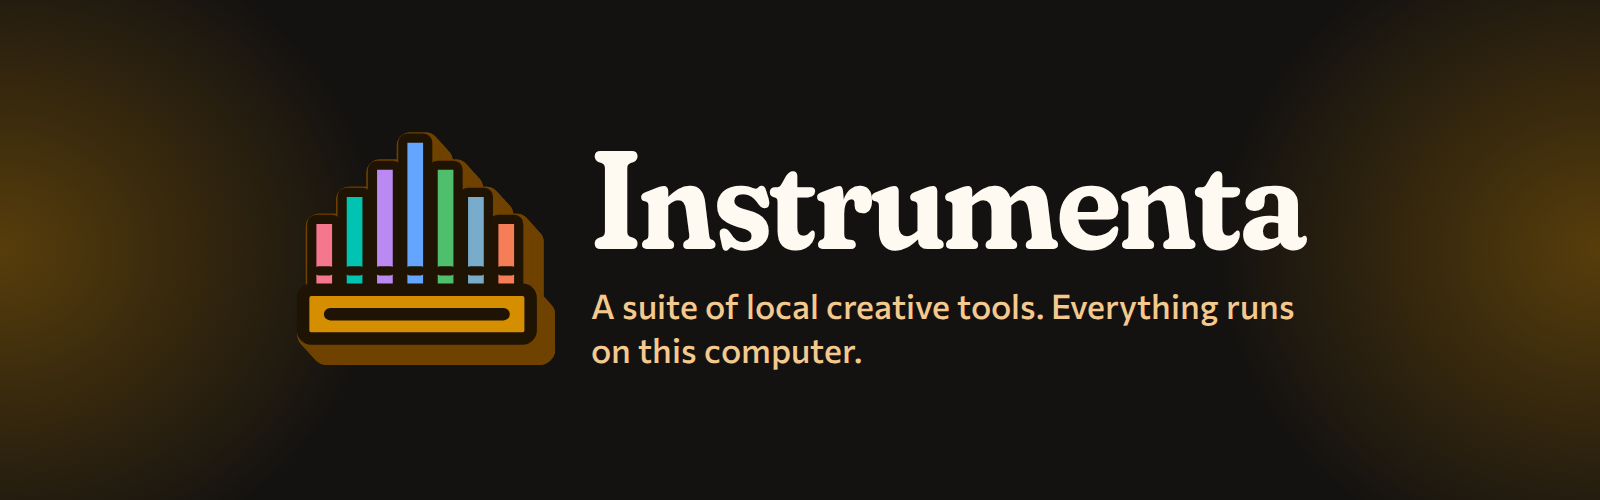
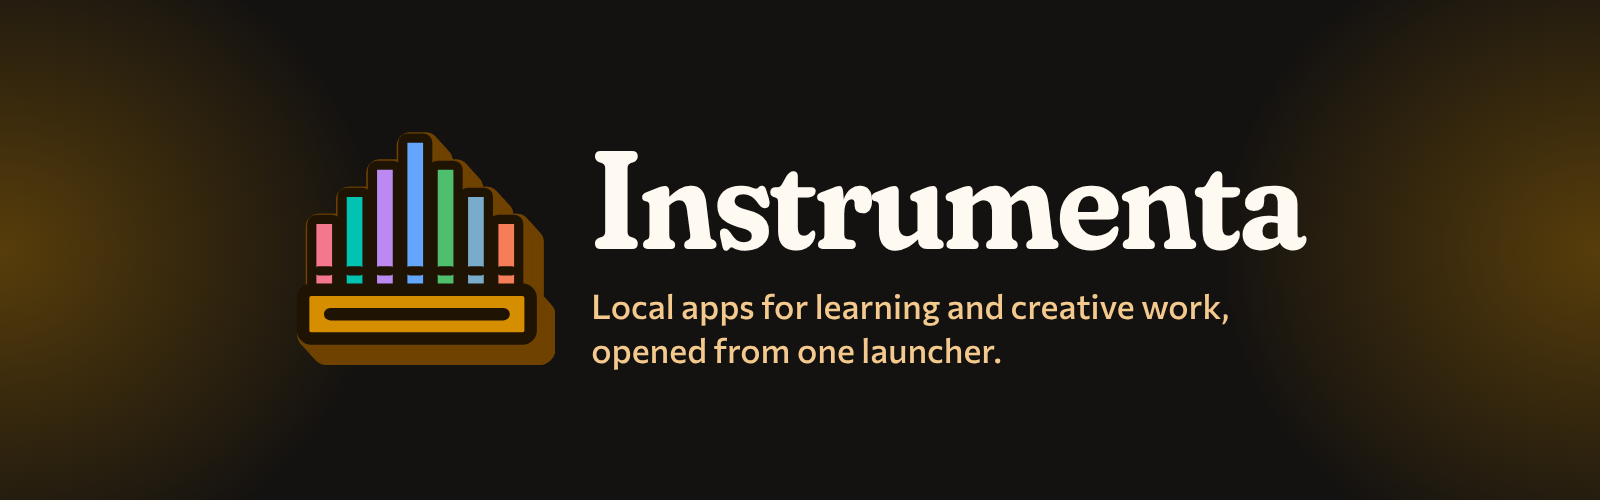
README: describe the suite as learning and creative apps, and trim to what the code does
The README opened with "A suite of local creative tools", but Discere and
LearnChess are learning apps. The new line is "Local apps for learning and
creative work, opened from one launcher." The banner is regenerated with it,
and the product brief no longer calls the suite creative-only.

Corrections checked against the code and catalog:
- App lines now match each catalog blurb (Fabula uses Claude Code or Codex,
  not Claude alone; Ludere's autosave; LearnChess puzzles and opening book).
- An update over 1 GB waits unless that app's own auto-update switch is on;
  it does not always wait.
- Theme has System, Light and Dark; Readiness also checks the NVIDIA GPU
  and free space.
- Instrumenta.cmd is workspace-level, not in this repo; the full command
  list (build and clean were missing) points to running-and-testing.md.
- The packaging command runs on Windows only.
- "Everything runs on this computer" is dropped: several apps call Claude
  Code or Codex.

The adapter list and release mechanics are now a short table and a pointer
to docs/product-lifecycle.md.

Claude-Session: https://claude.ai/code/session_01Cdn8M1FFwPQ9XRy3qEK3QP

Changed region(s): [[0.375, 0.57, 0.8125, 0.75], [0.6875, 0.45, 0.7188, 0.48]]

diff --git a/README.md b/README.md
@@ -4,118 +4,73 @@
 
 # Instrumenta
 
-A suite of local creative tools. Everything runs on this computer.
+Local apps for learning and creative work, opened from one launcher.
 
-Instrumenta is the Windows front door for this group of local software projects. It installs release
-artifacts, checks versions, launches the apps, and shows enough failure detail to be useful. Each app
-keeps its own repository, release history, runtime, and user data.
+Instrumenta is the Windows launcher for this group of apps. It installs their releases, checks
+versions, opens them, and shows enough failure detail to be useful. Each app keeps its own
+repository, release history, runtime, and user data.
 
 Current launcher version: **0.11.2**.
 
-Two views. **Console**, the default, gives the selected app the whole window, with the suite in a
-dock along the bottom. **Library** is the detailed view: every app as a list, and pages for Updates,
-Storage (what the apps use on disk, and safe clean-ups), Readiness (WSL, GPU, Claude Code and Codex,
-and what each app needs) and a workshop journal. Apps show their release notes after updating
-themselves; an update over 1 GB always waits to be asked. Settings has light and dark themes, and
-the organ in the corner plays each app's note if you let it. The brand is described in
-[`brand/README.md`](brand/README.md).
+**Console**, the default view, gives the selected app the whole window, with the suite in a dock
+along the bottom. **Library** lists every app and has pages for Updates, Storage (disk use and safe
+clean-ups), Readiness (WSL, NVIDIA GPU, Claude Code and Codex, free space, and what each app needs)
+and a workshop journal. Settings has a System, Light or Dark theme, and an organ that plays each
+app's note if you turn it on. The brand is described in [`brand/README.md`](brand/README.md).
 
 ## The apps
 
-- **Fabula** cuts a talking-head recording from its transcript and composes visuals around the
-  speaker, with Claude as the editor in the loop.
-- **Imago** is an AI designer: it drives your own Claude Code to make thumbnails, photo edits and
-  graphics.
-- **Ludere** is a screenplay editor and beat board.
-- **Discere** is a local learning workspace.
-- **LearnChess** trains openings, tactics, endgames, and play against Stockfish.
-- **Luna** generates speech with local GPU models.
-- **Forge3D** runs prompt-driven 3D asset workflows.
+- **Fabula** cuts a talking-head video by its words, then Claude Code or Codex makes it into a film.
+- **Imago** designs thumbnails, photo edits and graphics with your own Claude Code.
+- **Ludere** is a screenplay editor with a beat board. It autosaves as you write.
+- **Discere** is a learning workspace: lessons, review scheduling and a notebook that keep working
+  offline.
+- **LearnChess** teaches chess with Stockfish, two hundred thousand Lichess puzzles and an opening
+  book, all offline.
+- **Luna** generates speech on a local GPU.
+- **Forge3D** does prompt-driven 3D modelling on the Codex App Server.
 
 Motus, the native rough-cut editor, is discontinued and no longer in the launcher.
 
-Instrumenta itself is the eighth repository. The parent folder is only a workspace. Git remains the
-developer's job; the launcher has enough responsibility already.
-
 ## Open it
 
-For an installed copy, use the desktop or Start menu shortcut.
+An installed copy opens from the desktop or Start menu shortcut.
 
-From the sibling source workspace, double-click the top-level `Instrumenta.cmd`. Useful commands are:
+In a source workspace, double-click the workspace-level `Instrumenta.cmd` (it is not in this
+repository; [`scripts/instrumenta.ps1`](scripts/instrumenta.ps1) does the work). `.\Instrumenta.cmd
+help` lists its commands: `setup`, `update`, `build`, `test`, `doctor`, `clean`, `package` and
+`install`. `package` builds the installer and portable executable; `install` also opens the
+installer. [Running and testing](docs/running-and-testing.md) covers each one.
 
-```powershell
-.\Instrumenta.cmd setup
-.\Instrumenta.cmd update
-.\Instrumenta.cmd test
-.\Instrumenta.cmd doctor
-.\Instrumenta.cmd package
-.\Instrumenta.cmd install
-```
+## How apps are delivered
 
-`install` builds and opens the per-user Windows installer. `package` creates the installer and
-portable executable without installing either one.
+The catalog, [`products/catalog.json`](products/catalog.json), names each app's adapter.
 
-## How products are handled
+| App | Adapter | Delivered as |
+| --- | --- | --- |
+| Ludere, LearnChess | `managed-web` | Its own GitHub release; the copy baked into the installer is the fallback |
+| Fabula, Forge3D | `managed-bundle` | Its own GitHub release, kept with the previous version for rollback |
+| Luna | `installed-desktop` | Its own Windows installer, which Instrumenta downloads and runs |
+| Imago, Discere | `web-service` | A service started from the source checkout (inside WSL when the checkout is there) |
 
-Every product passes through the same visible lifecycle:
+Every release carries `instrumenta-release.json`. Instrumenta checks each artifact's size and
+SHA-256 before anything runs, resumes partial downloads, and installs one app at a time. **Add apps**
+lists every app with its state and download size.
 
-```text
-available → downloading → installing → installed → launching → running
-```
+Updates are found in the background and installed automatically unless that is turned off, for all
+apps or one. An update to an app that is open waits until it closes. An update over 1 GB waits to be
+asked unless that app's own auto-update switch is on. When a release has notes, the app shows
+them after updating until they are read.
+Instrumenta updates itself the same way: the header offers **Restart to update**, and closing the
+launcher installs it anyway.
 
-Updates and failures branch from that flow. The adapter decides what each step means:
+A sibling checkout can act as a developer override. Instrumenta does not pull, reset, switch, stage,
+or commit it. Surprise source control inside a launcher would be a fine way to ruin an afternoon.
 
-- `native-bundle` validates and starts a deployed native folder: Fabula's checkout, an Electron
-  runtime its own bootstrap deploys under it. Installed, Fabula is a `managed-bundle` whose
-  bootstrap runs the editor from an engine it sets up in WSL.
-- `web-vite` and `web-static` serve packaged local files in sandboxed Electron windows, each under
-  its own Content-Security-Policy. A product's `launch.health` names that policy and must equal its
-  ID, so one product's policy is never applied to another's build.
-- `web-service` starts a product-owned loopback service from its source checkout, waits for health,
-  then opens its window. Imago and Discere use it.
-- `managed-bundle` verifies a release archive, activates a versioned folder, and retains the last
-  working version for rollback. Forge3D uses it.
-- `managed-web` installs a released web build through the same verified path and serves it like any
-  other web product. Ludere and LearnChess are delivered this way, each from its own releases, with
-  the copy baked into the installer as the fallback.
-- `installed-desktop` delegates installation and removal to the product installer, then checks the
-  Windows installation record. Luna uses it.
+Install paths, verification, rollback, update policy and the release workflows are in
+[Product lifecycle](docs/product-lifecycle.md).
 
-The catalog is [`products/catalog.json`](products/catalog.json). Product-owned behavior belongs in
-each sibling repository's `instrumenta/product.json`.
-
-## Releases and developer checkouts
-
-Normal installs come from GitHub Releases. Instrumenta reads `instrumenta-release.json`, checks the
-declared size and SHA-256 for every artifact, and refuses path traversal or a corrupt download.
-Partial downloads can resume.
-
-Managed bundles are installed under:
-
-```text
-%LOCALAPPDATA%\Instrumenta\products\<id>\versions\<version>
-```
-
-The active-version pointer changes only after extraction and entry-point checks succeed. A failed
-first launch restores the previous version. The current and previous versions are kept; older ones
-are pruned. Downloads wait in `%LOCALAPPDATA%\Instrumenta\downloads` and are deleted once their
-version is active.
-
-Installs run one at a time. Add apps lists every product with its state and download size and
-queues the ones picked. Updates to installed products are found in the background and installed
-automatically unless that is turned off, globally or per app; an update to an app that is open waits
-until it closes.
-
-Instrumenta keeps itself current the same way. A newer launcher downloads in the background and is
-verified; the header then offers **Restart to update**, and closing Instrumenta installs it anyway.
-Releases are made by tagging `v<version>`: `.github/workflows/release.yml` for the launcher, and each
-web product's own `release.yml` through the shared `web-product-release.yml`.
-
-A sibling checkout can act as an explicit developer override. Instrumenta does not pull, reset,
-switch, stage, or commit that checkout. Surprise source control inside a launcher would be a fine way
-to ruin an afternoon.
-
-## Expected workspace
+## Workspace
 
 ```text
 Instrumenta/
@@ -129,15 +84,14 @@ Instrumenta/
 └── Forge3D/
 ```
 
-The launcher can remember another parent folder from Settings. `INSTRUMENTA_WORKSPACE` is available
-for an explicit command-line override.
+The parent folder is a container, not a repository. Settings can point the launcher at another
+parent folder, and `INSTRUMENTA_WORKSPACE` overrides it from the command line.
 
 ## Development
 
 Instrumenta needs Node.js 22.12 or newer.
 
 ```powershell
-cd Instrumenta
 npm install
 npm run apps:prepare:web
 npm start
@@ -146,32 +100,25 @@ npm run verify
 npm run package:windows
 ```
 
-The package command writes `Instrumenta-Setup-0.11.2.exe` and
-`Instrumenta-Portable-0.11.2.exe` to `release/`. Ludere and LearnChess are bundled with the launcher
-as the copies a fresh install opens with, and update from their own releases after that. Imago and
-Discere stay source-run, in WSL on Windows. Fabula, Luna and Forge3D install from their own
-releases.
+`npm run package:windows` runs on Windows only. It writes `Instrumenta-Setup-0.11.2.exe` and
+`Instrumenta-Portable-0.11.2.exe` to `release/`, with Ludere and LearnChess built in.
 
 ## Local boundaries
 
-Web products are confined to their registered `127.0.0.1` origin. Popups, arbitrary navigation,
-capture, device access, and privileged Electron permissions are denied. Native launches use named
-manifest entries and contained paths. Logs and crash data stay on the machine.
-
-Instrumenta stores launcher settings under Electron's `instrumenta-launcher` application data.
-Managed-product state lives below `%LOCALAPPDATA%\Instrumenta`. Product documents remain in the
-locations declared by each app.
+Web apps are confined to their registered `127.0.0.1` origin. Popups, arbitrary navigation,
+capture, device access, and privileged Electron permissions are denied. Logs and crash dumps stay on
+the machine. Launcher settings live under Electron's `instrumenta-launcher` application data,
+installed apps under `%LOCALAPPDATA%\Instrumenta`, and each app's documents where that app keeps
+them.
 
 ## Documentation
 
-- [Product manifests, release verification, adapters, and rollback](docs/product-lifecycle.md)
-- [Running, testing, packaging, and troubleshooting](docs/running-and-testing.md)
+- [Product lifecycle](docs/product-lifecycle.md): manifests, release verification, adapters, rollback, updates
+- [Running and testing](docs/running-and-testing.md): workspace commands, packaging, troubleshooting
 - [Repository layout and migration notes](docs/repository-migration.md)
 - [Local MCP servers and Codex skills](docs/ai-agents.md)
-- [Brand assets and product marks](brand/README.md), and [`brand/scripts/build-readme-banner.mjs`](brand/scripts/build-readme-banner.mjs) for the README banners
-- [Documentation voice and maintenance](docs/documentation-style.md)
-
-Instrumenta is MIT licensed.
+- [Brand assets and product marks](brand/README.md); [`brand/scripts/build-readme-banner.mjs`](brand/scripts/build-readme-banner.mjs) renders the README banners
+- [Documentation style](docs/documentation-style.md)
 
 ## Family
 

diff --git a/docs/suite/product-brief.md b/docs/suite/product-brief.md
@@ -2,14 +2,15 @@
 
 ## Overall direction
 
-Instrumenta is a toolkit of local creative applications with a visual launcher as the front door:
+Instrumenta is a toolkit of local applications, for learning and creative work, with a visual
+launcher as the front door. The original brief named three:
 
 - **Motus** — a native, performance-oriented video editor.
 - **Imago** — an image/photo editor.
 - **Ludere** — a screenplay-writing tool inspired by VOM Draft, focused on accepted screenplay
   formatting and intelligent authoring shortcuts.
 
-The launcher should feel like a finished creative suite rather than a basic React-style app block.
+The launcher should feel like a finished software suite rather than a basic React-style app block.
 It should lead with artwork, icons, motion, and clear titles, using very little explanatory copy.
 
 ## Requested work
